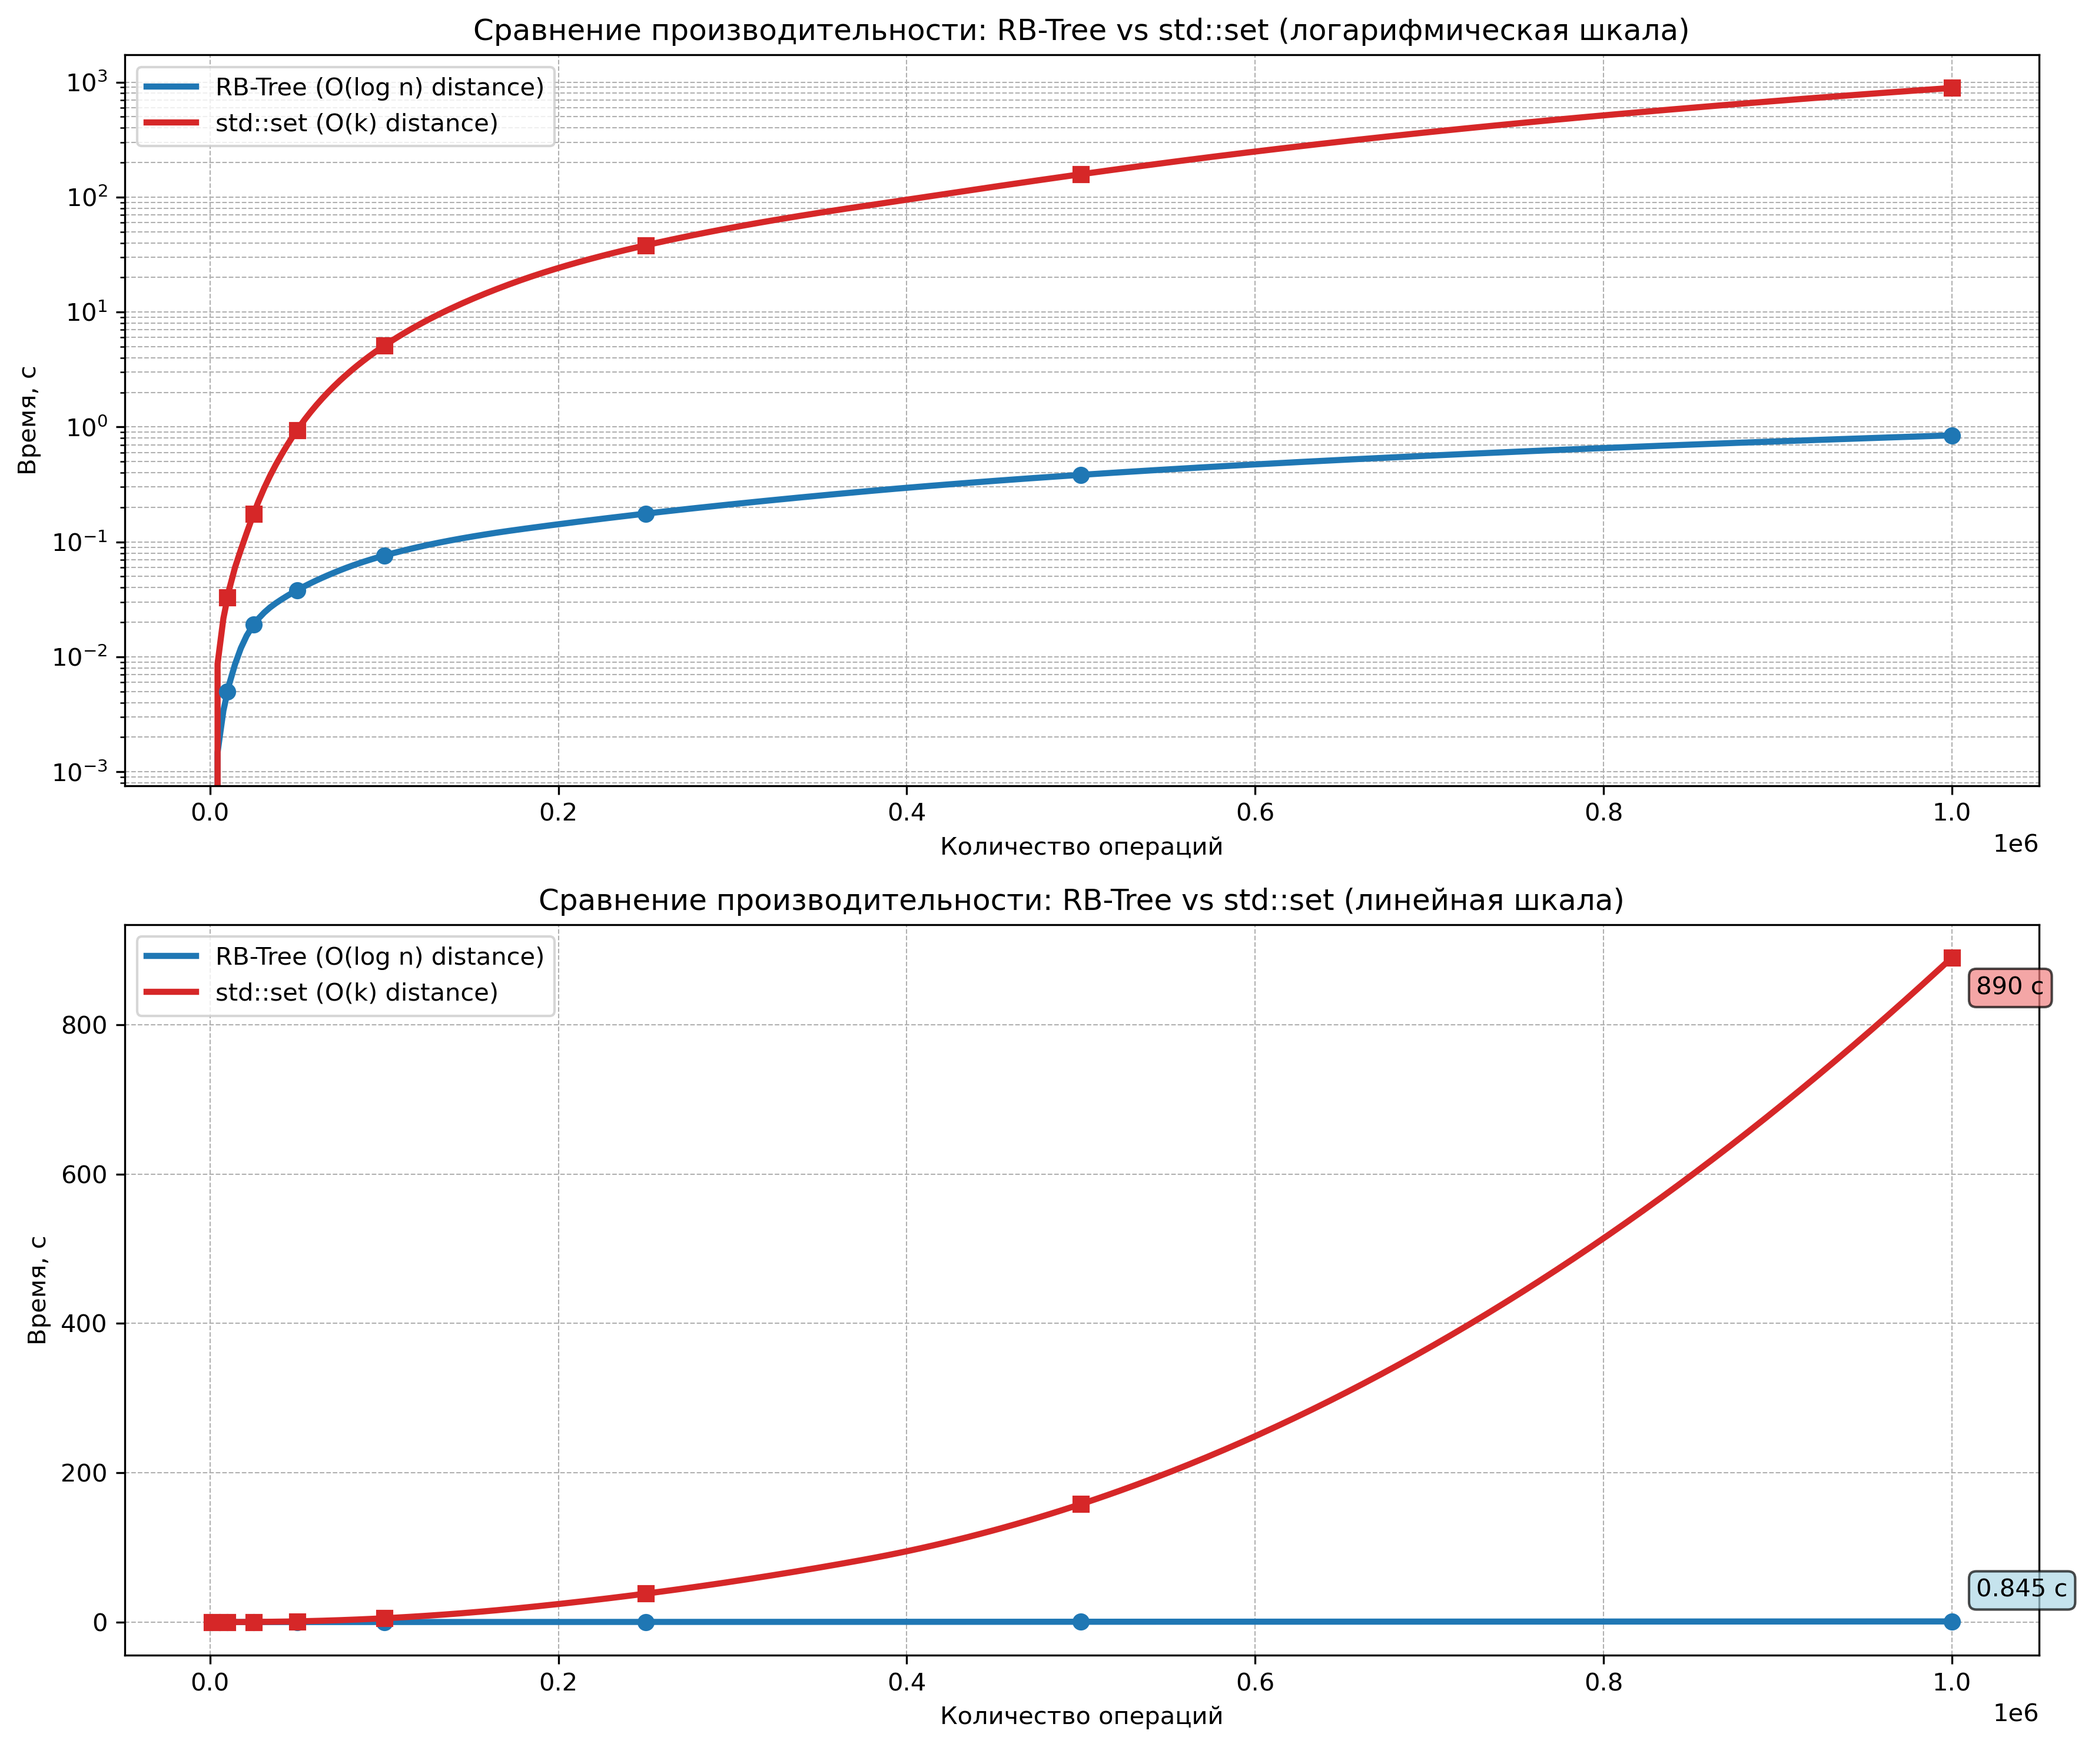
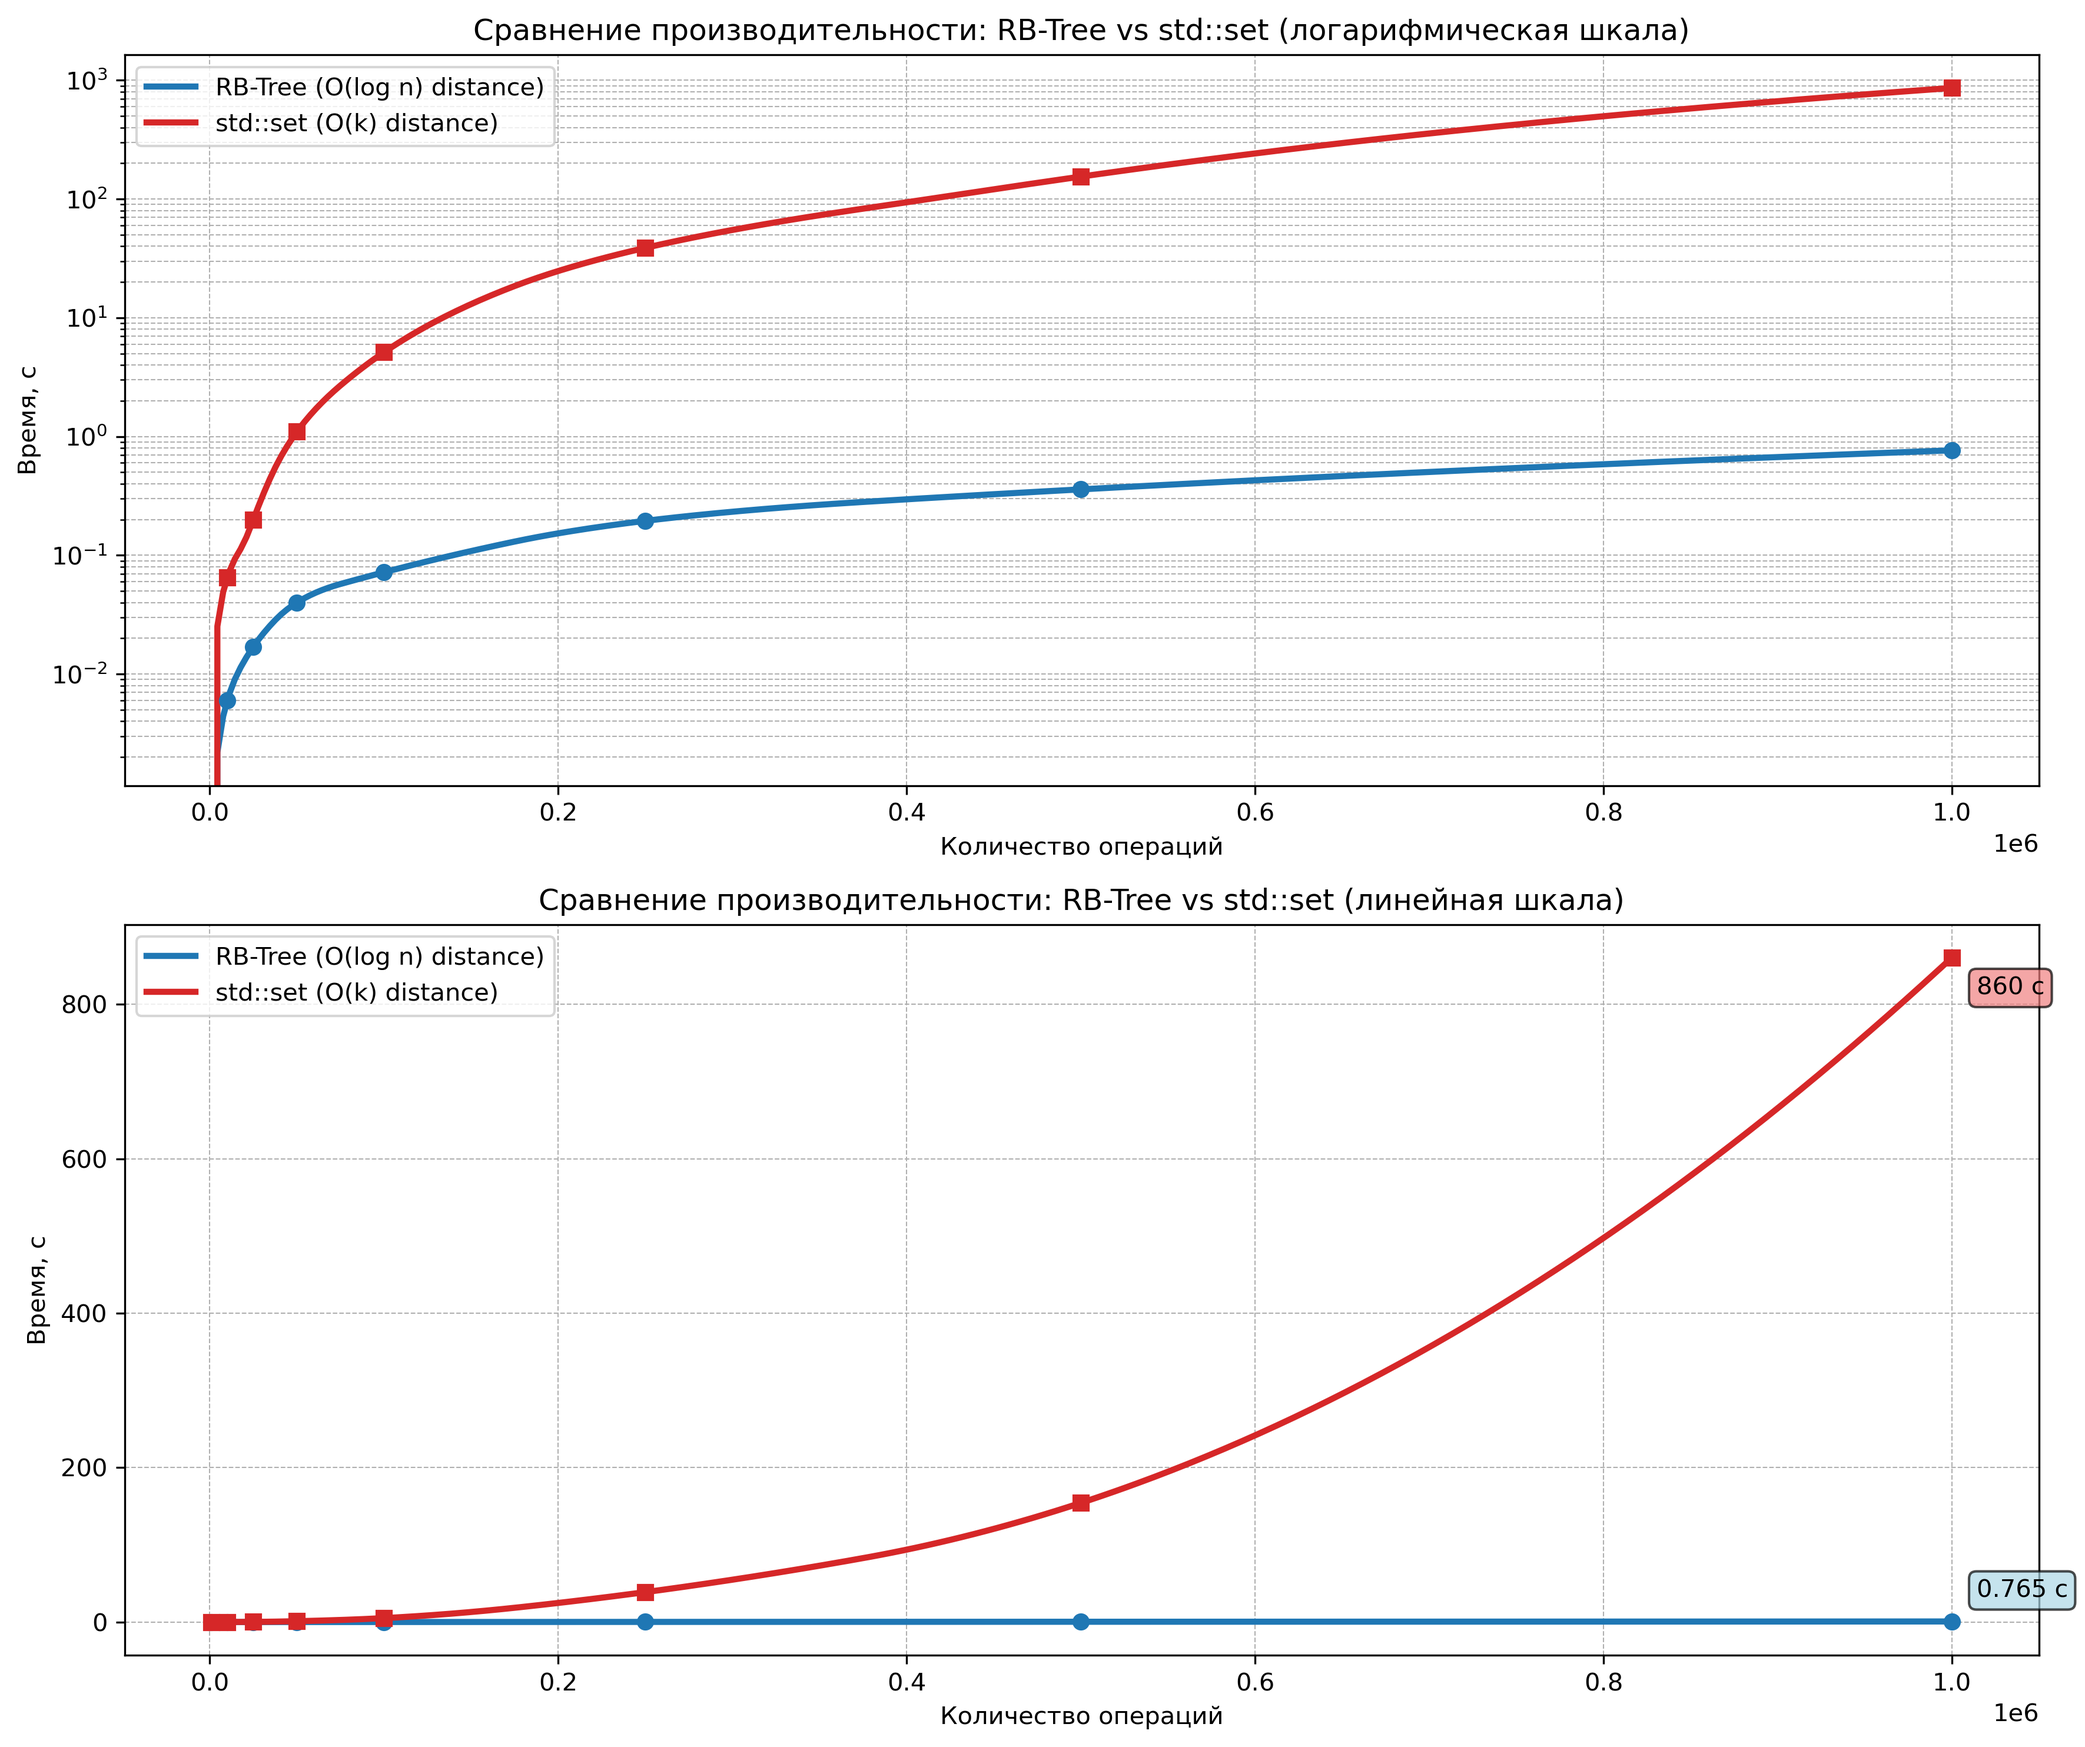
[Fix] Fixed target benchmark

diff --git a/src/tree.cpp b/src/tree.cpp
@@ -14,6 +14,8 @@ using namespace RB_Tree;
 int main() {
   using KeyTy = int;
 
+  volatile std::size_t benchmark_sink = 0;
+
   char command = 0;
   int first = 0, second = 0;
 
@@ -51,9 +53,11 @@ int main() {
         distance = tree.distance(start, fin);
       }
 
-#ifndef BENCHMARK
+#ifdef BENCHMARK
+      benchmark_sink = distance;
+#else
       std::cout << distance << " ";
-#endif // BENCHMARK
+#endif
 
       command = 0;
       break;

diff --git a/src/std-set.cpp b/src/std-set.cpp
@@ -9,6 +9,8 @@
 int main() {
   using KeyTy = int;
 
+  volatile std::size_t benchmark_sink = 0;
+
   char command = 0;
   int first = 0, second = 0;
 
@@ -40,9 +42,11 @@ int main() {
         distance = std::distance(start, fin);
       }
 
-#ifndef BENCHMARK
+#ifdef BENCHMARK
+      benchmark_sink = distance;
+#else
       std::cout << distance << " ";
-#endif // BENCHMARK
+#endif
 
       command = 0;
       break;
